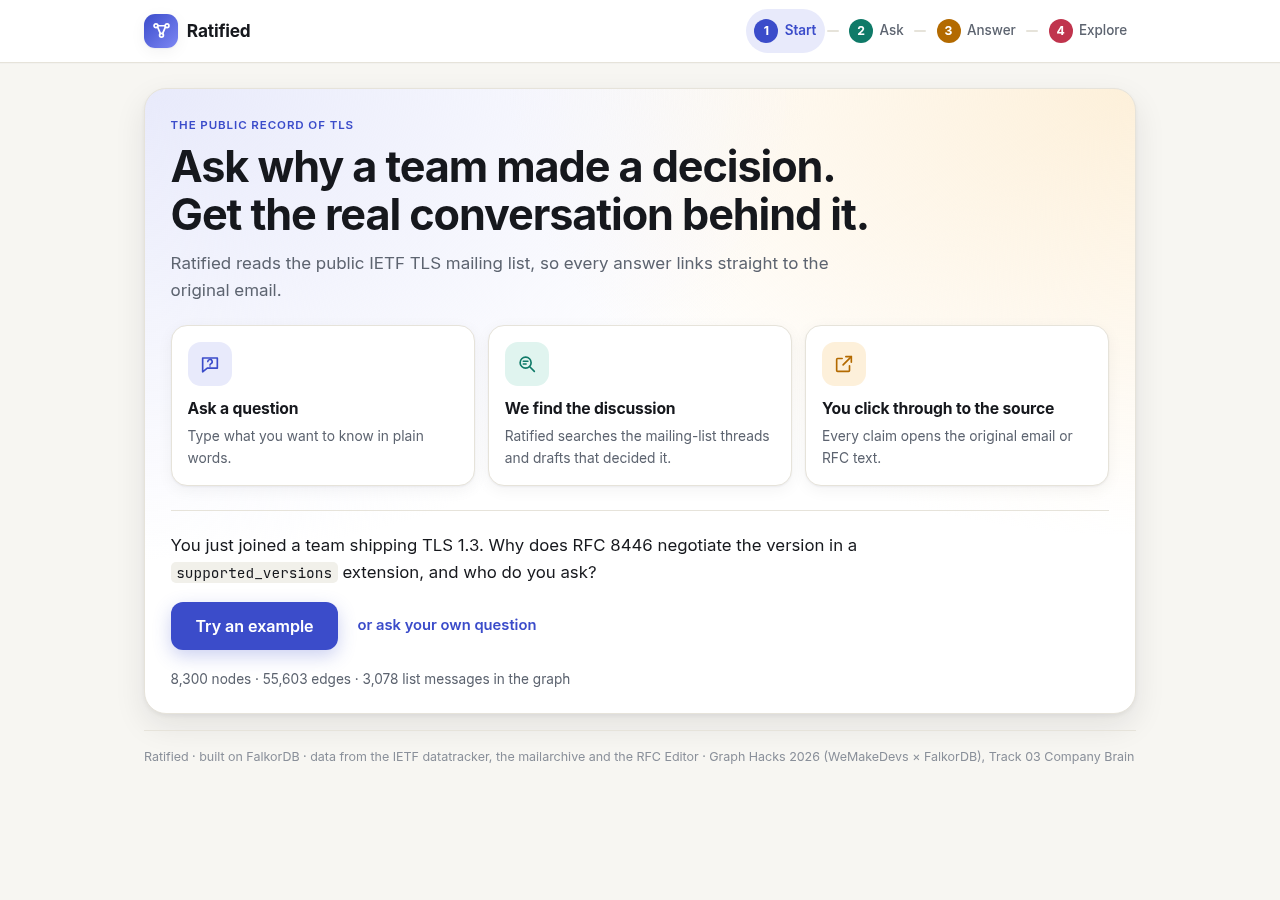
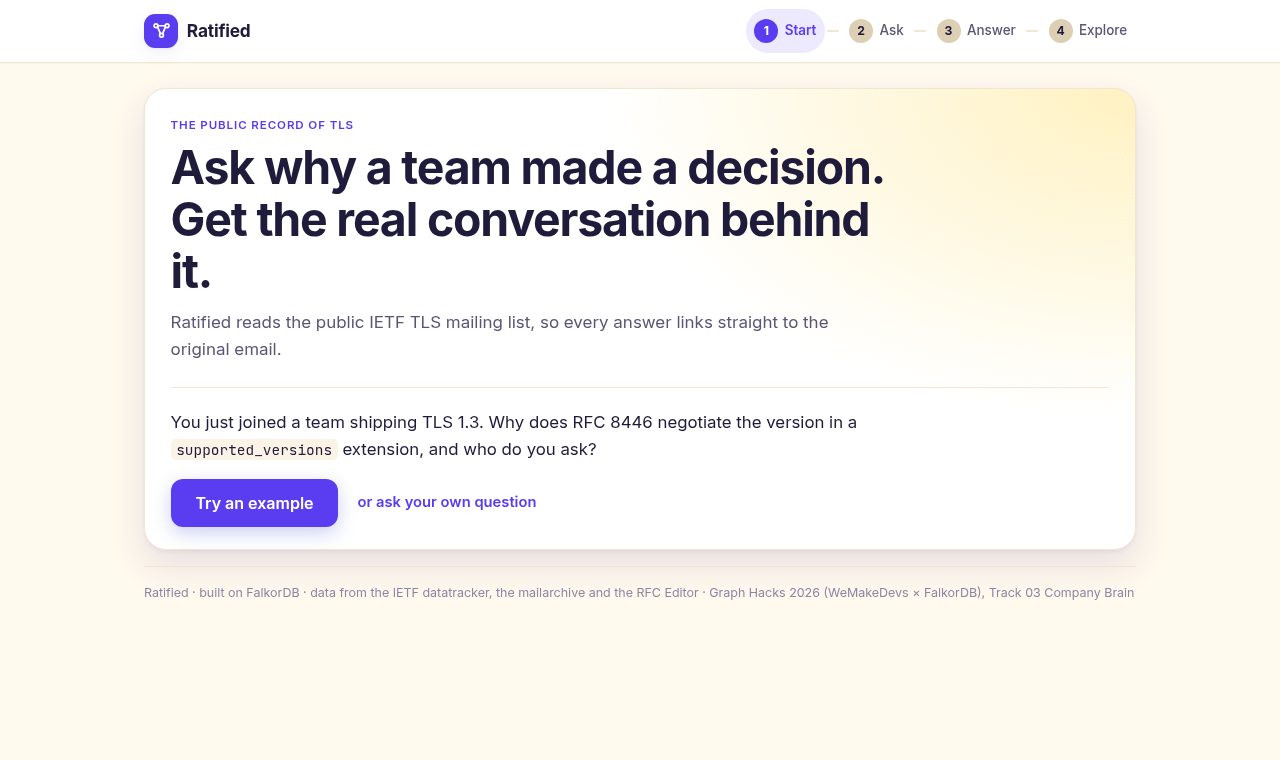
UI: one accent colour on warm cream, fold secondary answer sections, show less at once

diff --git a/src/ratified/templates/_card.html b/src/ratified/templates/_card.html
@@ -1,6 +1,17 @@
 {% macro ask_clause(number, label) -%}
 <button type="button" class="pill" hx-post="/ask" hx-vals='{"question": {{ ("Why does section " ~ number ~ " read the way it does, and who do I ask?") | tojson }}}' hx-target="#card" hx-swap="innerHTML show:#card:top">{{ label }}</button>
 {%- endmacro %}
+{% macro claim_li(claim, i) -%}
+      <li class="claim{% if claim.bucket == 'topic' %} lead{% endif %}">
+        <span>{{ claim.text }}</span>{% if claim.bucket == 'topic' %}<span class="tag">possible lead</span>{% endif %}
+        {% if claim.quote %}<blockquote class="quote">{{ claim.quote }}</blockquote>{% endif %}
+        {% if claim.chips %}<div class="chips">{% for chip in claim.chips %}<a class="chip" href="{{ chip.url }}" target="_blank" rel="noopener" title="{{ chip.url }}">{{ chip.kind }} · {{ chip.label }}</a>{% endfor %}</div>{% endif %}
+        {% if claim.sid %}
+        <button class="path-btn" hx-get="/receipt?draft={{ claim.draft | urlencode }}&sid={{ claim.sid | urlencode }}" hx-target="#receipt-{{ i }}" hx-swap="innerHTML">show the traced path</button>
+        <div id="receipt-{{ i }}" class="receipt"></div>
+        {% endif %}
+      </li>
+{%- endmacro %}
 {% set badge_words = {
   'answer': 'Answered',
   'partial': 'Partly answered',
@@ -31,47 +42,52 @@
     <h3 class="step-heading">The conversation</h3>
     <p class="sub">What people actually wrote while the clause was still changing. Open a chip to read the original email.</p>
     <ol class="claims">
-      {% for claim in card.claims %}
-      <li class="claim{% if claim.bucket == 'topic' %} lead{% endif %}">
-        <span>{{ claim.text }}</span>{% if claim.bucket == 'topic' %}<span class="tag">possible lead</span>{% endif %}
-        {% if claim.quote %}<blockquote class="quote">{{ claim.quote }}</blockquote>{% endif %}
-        {% if claim.chips %}<div class="chips">{% for chip in claim.chips %}<a class="chip" href="{{ chip.url }}" target="_blank" rel="noopener" title="{{ chip.url }}">{{ chip.kind }} · {{ chip.label }}</a>{% endfor %}</div>{% endif %}
-        {% if claim.sid %}
-        <button class="path-btn" hx-get="/receipt?draft={{ claim.draft | urlencode }}&sid={{ claim.sid | urlencode }}" hx-target="#receipt-{{ loop.index }}" hx-swap="innerHTML">show the traced path</button>
-        <div id="receipt-{{ loop.index }}" class="receipt"></div>
-        {% endif %}
-      </li>
-      {% endfor %}
+      {% for claim in card.claims[:2] %}{{ claim_li(claim, loop.index) }}{% endfor %}
     </ol>
+    {% if card.claims | length > 2 %}
+    <details class="more">
+      <summary>Show {{ card.claims | length - 2 }} more</summary>
+      <ol class="claims" start="3">
+        {% for claim in card.claims[2:] %}{{ claim_li(claim, loop.index + 2) }}{% endfor %}
+      </ol>
+    </details>
+    {% endif %}
   </section>
   {% endif %}
 
   {% if card.tool == 'why_clause' and card.sid %}
   <section class="step sec-trace">
-    <h3 class="step-heading">How we got here</h3>
+    <details class="fold">
+    <summary class="step-heading">How we got here</summary>
     <p class="sub">From the email, through each draft, to the section that shipped. Every box opens the public source.</p>
     <div class="receipt" hx-get="/receipt?draft={{ card.draft | urlencode }}&sid={{ card.sid | urlencode }}&limit=1" hx-trigger="load" hx-swap="innerHTML"></div>
+    </details>
   </section>
   {% endif %}
 
   {% if card.who_to_ask %}
   <section class="step sec-people">
     <h3 class="step-heading">Who to ask</h3>
-    <ul class="people">{% for person in card.who_to_ask %}<li><strong>{{ person.name }}</strong><span>{{ person.why }}</span></li>{% endfor %}</ul>
+    <ul class="people">{% for person in card.who_to_ask[:3] %}<li><strong>{{ person.name }}</strong><span>{{ person.why }}</span></li>{% endfor %}</ul>
+    {% if card.who_to_ask | length > 3 %}<details class="more"><summary>Show {{ card.who_to_ask | length - 3 }} more people</summary>
+    <ul class="people">{% for person in card.who_to_ask[3:] %}<li><strong>{{ person.name }}</strong><span>{{ person.why }}</span></li>{% endfor %}</ul></details>{% endif %}
   </section>
   {% endif %}
 
   {% if card.related %}
   <section class="step sec-related">
-    <h3 class="step-heading">Read these next</h3>
+    <details class="fold">
+    <summary class="step-heading">Read these next</summary>
     <p class="sub">Clauses that came up in the same messages. Read them before changing this one so you don't miss the bigger picture.</p>
     <div class="chips-row" style="margin:0">{% for r in card.related %}{{ ask_clause(r.number, "§" ~ r.number ~ " " ~ r.title ~ " · " ~ r.n ~ " shared messages") }}{% endfor %}</div>
+    </details>
   </section>
   {% endif %}
 
   {% if card.draft_message %}
   <section class="step sec-draft">
-    <h3 class="step-heading">A question you could send <span class="tag">not sent</span></h3>
+    <details class="fold">
+    <summary class="step-heading">A question you could send <span class="tag">not sent</span></summary>
     <p class="sub">Ratified never sends email. Every line is filled from the graph.</p>
     <div class="mail">
       <div class="mail-head">
@@ -82,6 +98,7 @@
       <pre>{{ card.draft_message.body }}</pre>
       <div class="mail-foot"><button type="button" class="btn" onclick="navigator.clipboard.writeText(this.closest('.mail').querySelector('pre').innerText); this.textContent='Copied'">Copy the question</button></div>
     </div>
+    </details>
   </section>
   {% endif %}
 

diff --git a/src/ratified/templates/index.html b/src/ratified/templates/index.html
@@ -283,6 +283,47 @@
       .card .sec-label, .card h3.step-heading { font-size: .9rem; gap: .45rem; }
       .timeline li { padding-left: 1.5rem; }
     }
+
+    /* ---------- final pass: one accent, warm cream, less on screen ---------- */
+    :root {
+      --bg: #fff9ee; --surface: #ffffff; --surface-2: #fbf4e6; --ink: #1f1b3a; --muted: #5a5675; --faint: #8b87a3;
+      --line: #f0e6d2; --line-strong: #dccfb3;
+      --accent: #5a3df0; --accent-ink: #ffffff; --accent-soft: #ede9ff; --accent-line: #c9bfff;
+      --amber: #5a3df0; --amber-soft: #ede9ff; --teal: #5a3df0; --teal-soft: #ede9ff; --rose: #5a3df0; --rose-soft: #ede9ff;
+      --hi: #ffd84d;
+      --shadow: 0 1px 2px rgba(60, 40, 120, .06), 0 6px 18px rgba(60, 40, 120, .07);
+      --shadow-lg: 0 2px 4px rgba(60, 40, 120, .06), 0 16px 36px rgba(60, 40, 120, .12);
+    }
+    @media (prefers-color-scheme: dark) {
+      :root { --bg: #15122a; --surface: #1e1a38; --surface-2: #272246; --ink: #f1eefc; --muted: #b3aed2; --faint: #8f8aae;
+        --line: #302a55; --line-strong: #453e75; --accent: #a99bff; --accent-ink: #15122a; --accent-soft: #2d2660; --accent-line: #51479a;
+        --amber: #a99bff; --amber-soft: #2d2660; --teal: #a99bff; --teal-soft: #2d2660; --rose: #a99bff; --rose-soft: #2d2660; --hi: #ffd84d; }
+    }
+    .mark { background: var(--accent); }
+    .stepper .num, .stepper a:nth-of-type(n) .num { background: var(--line-strong); color: var(--ink); }
+    .stepper a[aria-current="step"] .num { background: var(--accent); color: var(--accent-ink); }
+    .hero-start { background: radial-gradient(90% 120% at 100% 0%, rgba(255, 216, 77, .35), transparent 60%), var(--surface); }
+    .hero-start h1 { font-size: clamp(1.8rem, 5.6vw, 2.9rem); }
+    .how, .stats-line, .hero-start .stats { display: none; }
+    .run, .btn.primary, .hero-start .btn-primary { background: var(--accent); color: var(--accent-ink); border-color: var(--accent); }
+    .card .tag { background: var(--hi); border-color: var(--hi); color: #3a2f00; }
+    .badge { border-radius: 999px; }
+    .card details.fold, .card details.more { margin: 0; }
+    .card details.fold > summary, .card details.more > summary { list-style: none; cursor: pointer; }
+    .card details.fold > summary::-webkit-details-marker, .card details.more > summary::-webkit-details-marker { display: none; }
+    .card details.fold > summary.step-heading { min-height: 44px; margin: 0; }
+    .card details.fold > summary.step-heading::after { content: "+"; margin-left: auto; font-size: 1.2rem; font-weight: 500; color: var(--accent); }
+    .card details.fold[open] > summary.step-heading::after { content: "–"; }
+    .card details.fold[open] > summary.step-heading { margin-bottom: .55rem; }
+    .card details.more > summary { display: inline-flex; align-items: center; min-height: 44px; font-size: .88rem; font-weight: 600; color: var(--accent); }
+    .card details.more[open] > summary { margin-bottom: .2rem; }
+    .card .step { margin-top: .9rem; padding-top: .9rem; }
+    .card .claims > li:nth-child(n) { padding: .7rem 0; }
+    .svgfold { margin: .3rem 0 .6rem; }
+      .hero-start h1 { text-wrap: balance; max-width: 40rem; }
+    .card summary.step-heading { display: flex; align-items: center; gap: .55rem; font-size: .96rem; font-weight: 700; color: var(--ink); line-height: 1.35; }
+    .card summary.step-heading::before { counter-increment: stepnum; content: counter(stepnum); flex: none; display: inline-grid; place-items: center; width: 22px; height: 22px; border-radius: 50%; background: var(--accent-soft); color: var(--accent); font-size: .72rem; line-height: 1; }
+    .card summary.step-heading::after { margin-left: auto; }
   </style>
 </head>
 <body>

diff --git a/src/ratified/templates/_receipt.html b/src/ratified/templates/_receipt.html
@@ -10,7 +10,7 @@
   {% for path in receipt.paths %}
   <div class="path">
     <div class="path-via">{% if path.via.startswith('cited') %}Traced from a message that cites this clause{% else %}Traced from a thread whose subject matched the topic{% endif %}{% if path.similarity is not none %} · the cited revision's text was {{ (100 * path.similarity) | round | int }}% similar to what shipped{% endif %}</div>
-    {{ path.svg | safe }}
+    <details class="more svgfold"><summary>Show the diagram</summary>{{ path.svg | safe }}</details>
     <ol class="timeline">
       {% for step in path.steps %}
       <li class="tl-{{ step.kind }}">
